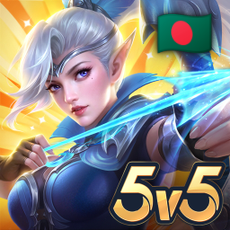
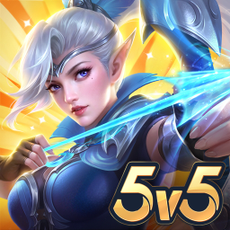
fix

Changed region(s): [[0.6391, 0.0, 0.9739, 0.2739]]

diff --git a/app/api/games/route.ts b/app/api/games/route.ts
@@ -1,10 +1,12 @@
 import { NextResponse } from "next/server";
 
 /* ================= IMAGES ================= */
-const MLBB_MAIN_IMAGE = "/game-assets/mlbb-globbal.png";
+const MLBB_MAIN_IMAGE = "/game-assets/mlbb-bd.png";
 const MLBB_SMALL_IMAGE = "/game-assets/mlbb-small.png";
-const MLBB_SG_MY_IMAGE = "/game-assets/mlbb-global.png";
+const MLBB_SG_MY_IMAGE = "/game-assets/mlbb-sg.png";
 const MLBB_GLOBAL_IMAGE = "/game-assets/mlbb-globbal.png";
+const MLBB_INDO = "/game-assets/mlbb-indo.png";
+const MLBB_BUNDLE = "/game-assets/mlbb-bd.png";
 
 /* ================= OTT SECTION ================= */
 const OTTS = [
@@ -62,9 +64,9 @@ export async function GET() {
       let updatedGame = { ...game };
 
       // Rename MLBB SMALL/PHP → MLBB SMALL
-      if (updatedGame.gameName === "MLBB SMALL/PHP") {
-        updatedGame.gameName = "MLBB SMALL";
-      }
+      // if (updatedGame.gameName === "MLBB SMALL/PHP") {
+      //   updatedGame.gameName = "MLBB SMALL";
+      // }
 
       // Fix wrong publisher spelling
       if (updatedGame.gameFrom === "Moneyton") {
@@ -100,15 +102,27 @@ export async function GET() {
           image: MLBB_GLOBAL_IMAGE,
         };
       }
+      if (updatedGame.gameSlug === "mlbb-indo42") {
+        updatedGame.gameImageId = {
+          ...updatedGame.gameImageId,
+          image: MLBB_INDO,
+        };
+      }
 
       // Replace MLBB SMALL image
-      if (updatedGame.gameName === "MLBB SMALL") {
+      if (updatedGame.gameSlug === "mlbb-smallphp980") {
         updatedGame.gameImageId = {
           ...updatedGame.gameImageId,
           image: MLBB_SMALL_IMAGE,
         };
       }
 
+      if (updatedGame.gameSlug === "weeklymonthly-bundle931") {
+        updatedGame.gameImageId = {
+          ...updatedGame.gameImageId,
+          image: MLBB_BUNDLE,
+        };
+      }
       return updatedGame;
     };
 
